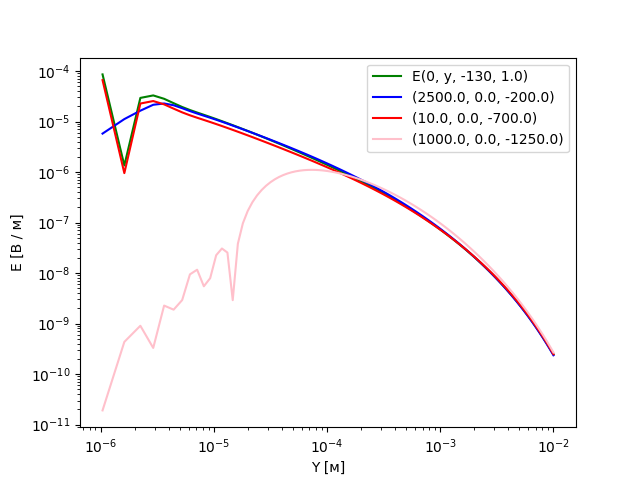
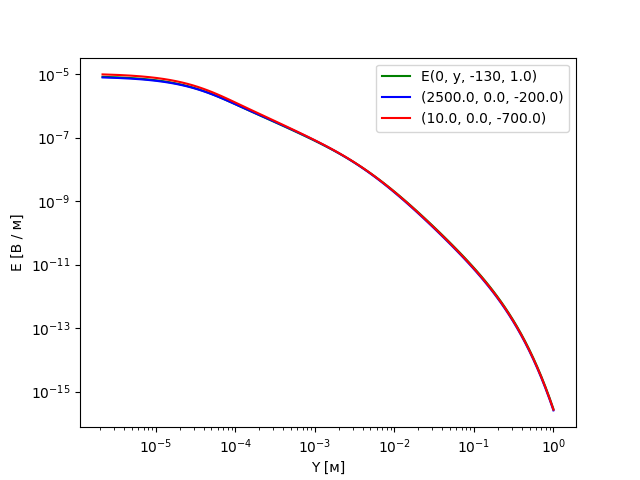
LU works

diff --git a/FEM/FEM2D.cs b/FEM/FEM2D.cs
@@ -55,20 +55,23 @@ public class FEM2D : FEM
 
         if (Time.Count > 1)
         {
-            (Solutions[1], Discrepancy[1]) = (Solutions[0], Discrepancy[0]);
-            if (Time.Count > 2)
-            for (int i = 2; i < Time.Count; i++)
+            //(Solutions[1], Discrepancy[1]) = (Solutions[0], Discrepancy[0]);
+            //if (Time.Count > 2)
+            for (int i = 1; i < Time.Count; i++)
             {
                 Console.WriteLine($"\n {i} / {Time.Count - 1}. Time layer: {Time[i]}");
-                Thread.Sleep(1500);
+                //Thread.Sleep(1500);
 
-                double deltT = Time[i] - Time[i - 2];
-                double deltT0 = Time[i] - Time[i - 1];
-                double deltT1 = Time[i - 1] - Time[i - 2];
+                //double deltT = Time[i] - Time[i - 2];
+                //double deltT0 = Time[i] - Time[i - 1];
+                //double deltT1 = Time[i - 1] - Time[i - 2];
 
-                double tau0 = (deltT + deltT0) / (deltT * deltT0);
-                double tau1 = deltT / (deltT1 * deltT0);
-                double tau2 = deltT0 / (deltT * deltT1);
+                //double tau0 = (deltT + deltT0) / (deltT * deltT0);
+                //double tau1 = deltT / (deltT1 * deltT0);
+                //double tau2 = deltT0 / (deltT * deltT1);
+
+                double deltT = Time[i] - Time[i - 1];
+                double tau = 1.0D / deltT;
 
                 var matrix1 = new GlobalMatrix(pointsArr.GetLength());
                 Generator.BuildPortait(ref matrix1, pointsArr.GetLength(), elemsArr);
@@ -78,10 +81,12 @@ public class FEM2D : FEM
                 Generator.BuildPortait(ref M, pointsArr.GetLength(), elemsArr);
                 Generator.FillMatrix(ref M, pointsArr, elemsArr, TypeOfMatrixM.Mr);
 
-                Matrix = (tau0 * M) + matrix1;
+                //Matrix = (tau0 * M) + matrix1;
+                Matrix = (tau * M) + matrix1;
 
                 var bi = new GlobalVector(pointsArr.GetLength());
-                Vector = bi + (tau1 * (M * Solutions[i - 1])) - (tau2 * (M * Solutions[i - 2]));
+                //Vector = bi + (tau1 * (M * Solutions[i - 1])) - (tau2 * (M * Solutions[i - 2]));
+                Vector = bi + (tau * (M * Solutions[i - 1]));
 
                 Generator.ConsiderBoundaryConditions(ref Matrix, ref Vector, pointsArr, bordersArr, Time[i]);        
                 (Solutions[i], Discrepancy[i]) = solver.Solve(Matrix, Vector);
@@ -244,21 +249,21 @@ public class FEM2D : FEM
                 E_phi[i] = new GlobalVector(A_phi[i].Size);
             else
             {
-                //E_phi[i] = -1.0D / (Time[i] - Time[i - 1]) * (A_phi[i] - A_phi[i - 1]);
+                E_phi[i] = -1.0D / (Time[i] - Time[i - 1]) * (A_phi[i] - A_phi[i - 1]);
 
-                double ti = Time[i];
-                double ti_1 = Time[i - 1];
-                double ti_2 = Time[i - 2];
+                //double ti = Time[i];
+                //double ti_1 = Time[i - 1];
+                //double ti_2 = Time[i - 2];
 
-                double dt0 = ti - ti_1;
-                double dt1 = ti_1 - ti_2;
-                double dt = ti - ti_2;
+                //double dt0 = ti - ti_1;
+                //double dt1 = ti_1 - ti_2;
+                //double dt = ti - ti_2;
 
-                double tau2 = dt0 / (dt * dt1);
-                double tau1 = dt / (dt0 * dt1);
-                double tau0 = (dt + dt0) / (dt * dt0);
-                
-                E_phi[i] = -1.0D * (tau0 * A_phi[i] - tau1 * A_phi[i - 1] + tau2 * A_phi[i - 2]);
+                //double tau2 = dt0 / (dt * dt1);
+                //double tau1 = dt / (dt0 * dt1);
+                //double tau0 = (dt + dt0) / (dt * dt0);
+                //
+                //E_phi[i] = -1.0D * (tau0 * A_phi[i] - tau1 * A_phi[i - 1] + tau2 * A_phi[i - 2]);
             }
         }
     }

diff --git a/Drawer/PictureDrawer2D.py b/Drawer/PictureDrawer2D.py
@@ -6,7 +6,7 @@ import os
 from pathlib import Path
 from matplotlib.animation import PillowWriter
 
-fig = plt.figure(figsize=(19, 7.3))
+fig = plt.figure(figsize=(19, 3.9))
 l = plt.plot()
 
 metadata = dict(title='Movie', artist='codinglikemad')
@@ -15,11 +15,11 @@ writer = PillowWriter(fps=12, metadata=metadata)
 #input_path = sys.argv[1]
 #output_path = sys.argv[2]
 
-#input_path = "D:\\CodeRepos\\Diplom\\Data\\Output\\ToDraw\\2_dim\\Ephi\\"
-#output_path = "D:\\CodeRepos\\Diplom\\Drawer\\Pictures\\E_phi\\"
+input_path = "D:\\CodeRepos\\Diplom\\Data\\Output\\ToDraw\\2_dim\\Ephi\\"
+output_path = "D:\\CodeRepos\\Diplom\\Drawer\\Pictures\\E_phi\\"
 
-input_path = "D:\\CodeRepos\\Diplom\\Data\\Output\\ToDraw\\3_dim\\E\\"
-output_path = "D:\\CodeRepos\\Diplom\\Drawer\\Pictures\\E3d\\"
+#input_path = "D:\\CodeRepos\\Diplom\\Data\\Output\\ToDraw\\3_dim\\E\\"
+#output_path = "D:\\CodeRepos\\Diplom\\Drawer\\Pictures\\E3d\\"
 
 files_amount = len(os.listdir(input_path))
 
@@ -74,8 +74,8 @@ with writer.saving(fig, output_path + "EM_field.gif", 100):
                 plt.colorbar(cbar)
                 plt.plot([min(r), min(r)], [max(z), min(z)], 'black', linewidth = 3.5)
                 plt.plot([min(r), max(r)], [0.0, 0.0], '#b34b06', linewidth = 2.0)
-                plt.plot([min(r), max(r)], [-500.0, -500.0], '#351e1c', linewidth = 2.0)
-                plt.plot([min(r), max(r)], [-1000.0, -1000.0], '#efede6', linewidth = 2.0)
+                plt.plot([min(r), max(r)], [-3000.0, -3000.0], '#351e1c', linewidth = 2.0)
+                plt.plot([min(r), max(r)], [-6000.0, -6000.0], '#efede6', linewidth = 2.0)
                 plt.scatter(10, 0, color='green')
                 plt.scatter(510, 0, color='blue')
                 plt.scatter(1000, 0, color='pink')

diff --git a/ConsoleApp/Program.cs b/ConsoleApp/Program.cs
@@ -52,8 +52,8 @@ ReadMesh(InputDirectory + "WholeMesh.txt");
 ReadTimeMesh(InputDirectory + "Time.txt");
 
 // Set recivers
-List<Point3D> recivers = [new(273.55, 443.55, 0.0), new(510.0, 0.0, 0.0),
-                          new(243.55, -493.55, 0.0), new(2500.0, 0.0, 0.0)];
+List<Point3D> recivers = [new(1050.0, 0.0, 0.0), new(950.0, 0.0, 0.0),
+                          new(707.10, 707.10, 0.0), new(800.0, 0.0, -8000.0)];
 
 Mesh3Dim mesh3D = new(NodesX, InfoAboutX, NodesY, InfoAboutY,
                       NodesZ, InfoAboutZ, Elems, Borders);
@@ -69,7 +69,7 @@ ConstructMesh(ref mesh2D);
 FEM2D myFEM2D = new(mesh2D, timeMesh);
 if (isSolving2DimTask)
 {
-    myFEM2D.SetSolver(new LOS());
+    myFEM2D.SetSolver(new LU_LOS());
     myFEM2D.Solve();
     myFEM2D.GenerateVectorEphi();
     myFEM2D.WriteData(OutputDirectory);
@@ -87,14 +87,15 @@ if (isSolving2DimTask)
     //                  $"Drawing graphics finished with code: {c}\n");
 }
 else
+{
     myFEM2D.ReadAnswer(OutputDirectory);
+    Console.WriteLine("2D answer read");
+}
 
-
-Console.WriteLine("2D answer read");
 myFEM2D.GenerateVectorEphi();
 myFEM2D.MeasureValuesOnReceivers(recivers, OutputDirectory + "ToDraw\\2_dim\\Receivers\\");
 
-//return 0;
+return 0;
 
 ConstructMesh(ref mesh3D);
 Console.WriteLine("3D mesh constructed");

diff --git a/Drawer/2D_graphicsDrawer.py b/Drawer/2D_graphicsDrawer.py
@@ -6,8 +6,8 @@ import sys
 #E_data_path = sys.argv[2]
 #output_path = sys.argv[3]
 
-A_data_path = "D:\\CodeRepos\\Diplom\\Data\\Output\\ToDraw\\3_dim\\Receivers\\A.txt"
-E_data_path = "D:\\CodeRepos\\Diplom\\Data\\Output\\ToDraw\\3_dim\\Receivers\\E.txt"
+A_data_path = "D:\\CodeRepos\\Diplom\\Data\\Output\\ToDraw\\2_dim\\Receivers\\A.txt"
+E_data_path = "D:\\CodeRepos\\Diplom\\Data\\Output\\ToDraw\\2_dim\\Receivers\\E.txt"
 output_path = "D:\\CodeRepos\\Diplom\\Drawer\\Graphics\\"
 
 
@@ -51,7 +51,7 @@ e3 = e3[2:]
 plt.loglog(time, e0, color='green', label="E(0, y, -130, 1.0)")
 plt.loglog(time, e1, color='blue', label="(2500.0, 0.0, -200.0)")
 plt.loglog(time, e2, color='red', label="(10.0, 0.0, -700.0)")
-plt.loglog(time, e3, color='pink', label="(1000.0, 0.0, -1250.0)")
+#plt.loglog(time, e3, color='pink', label="(1000.0, 0.0, -1250.0)")
 #plt.ylim(min(e0), -1 * min(e0))
 plt.xlabel("Y [м]")
 plt.ylabel("E [В / м]")

diff --git a/MathObjects/Generator.cs b/MathObjects/Generator.cs
@@ -414,7 +414,7 @@ public static class Generator
     public static void FillVector(ref GlobalVector v, ArrayOfPoints2D arrPt, ArrayOfElems arrEl, double t)
     {
         for (int i = 0; i < arrPt.GetLength(); i++)
-            if (arrPt[i].R == 500.0D && arrPt[i].Z == 0.0D && t <= 0.0D)
+            if (arrPt[i].R == 1000.0D && arrPt[i].Z == 0.0D && t <= 0.0D)
                 v[i] = F(arrPt[i].R, arrPt[i].Z, t);
 
             
